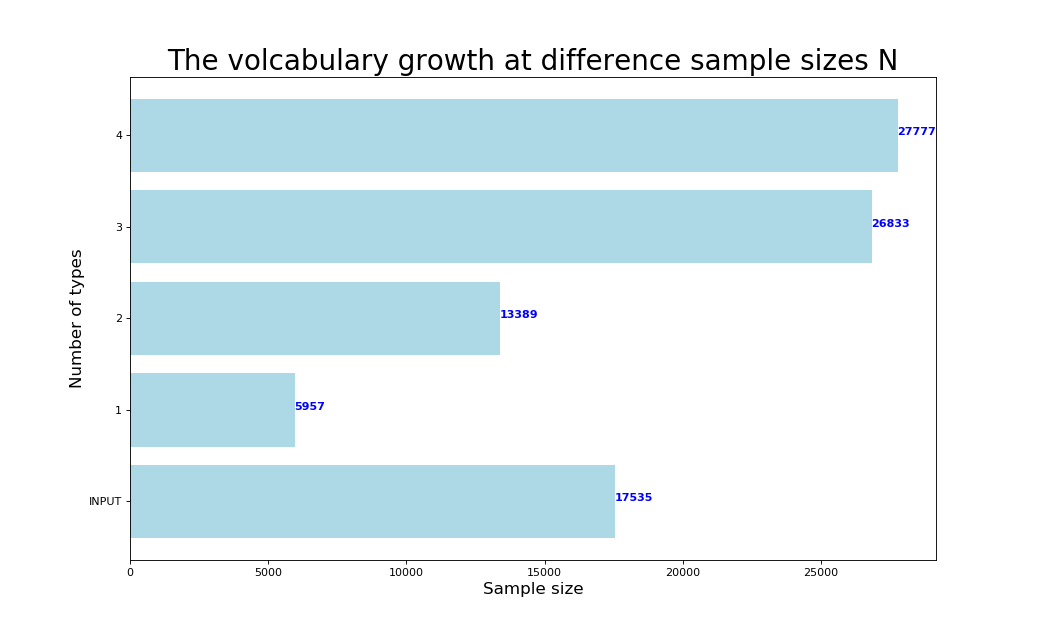
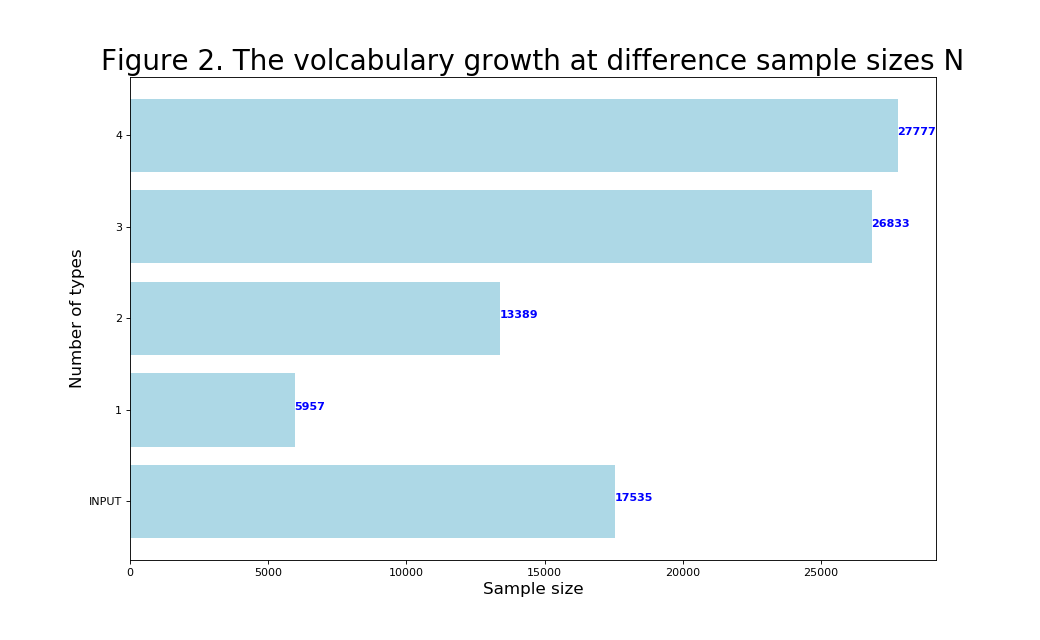
Task1 Completed, P1_Code & Gold Code Combined, readme edited

Changed region(s): [[0.0923, 0.0625, 0.9231, 0.125]]

diff --git a/P1_Code.py b/P1_Code.py
@@ -17,6 +17,8 @@ from nltk.stem import WordNetLemmatizer
 from nltk.corpus import stopwords 
 from collections import Counter
 import matplotlib.pyplot as plt
+import json
+import _pickle as pickle
 
 ###### Task 1: Exploratory Data analysis (5 points) ######
 
@@ -175,11 +177,10 @@ def input_data_explore(data):
     ax.plot(np.log(sort_lemma_df["Count"]))
     ax.set_xlabel('Word Index (Sort by Frequency)', fontsize = 15)
     ax.set_ylabel('Token Frequency (Log Scale)', fontsize = 15)
-    ax.set_title("10. Token Log Frequency")
+    ax.set_title("Figure 1. Token Log Frequency")
     result['10. Log Token Frequency']= "See Figure 1: In question 10, we removed stop words and lemmatized all the words. The plot shows that the majority of words only occur once or twice. Therefore we might remove these words when we train the model. "
-    pp.pprint(result)
     plt.savefig("token log frequency.png")
-    return
+    return result
 
 def gold_data_explore(dev,dev_train,dev_test,devtest,INPUT):
     result = {}   
@@ -223,7 +224,7 @@ def gold_data_explore(dev,dev_train,dev_test,devtest,INPUT):
     #pl.xticks(rotation=90)
     for i ,v in enumerate(type_count):
         ax.text(v, i, str(int(type_count[i])), color='blue', fontweight='bold')
-    ax.set_title('The volcabulary growth at difference sample sizes N',fontsize=25)
+    ax.set_title('Figure 2. The volcabulary growth at difference sample sizes N',fontsize=25)
     ax.set_xlabel('Sample size', fontsize = 15)
     ax.set_ylabel('Number of types', fontsize = 15)
     plt.savefig('volcabulary growth.png')
@@ -268,13 +269,28 @@ def gold_data_explore(dev,dev_train,dev_test,devtest,INPUT):
 
 if __name__ == "__main__":
     INPUT = load_data('P1_Data/Dev/INPUT.txt')
-    input_data_explore(INPUT)
+    input_result = input_data_explore(INPUT)
     
     dev = load_data('P1_Data/Gold/dev.txt')
     dev_train = load_data('P1_Data/Gold/train.txt')
     dev_test = load_data('P1_Data/Gold/test.txt')
     devtest = load_data('P1_Data/Gold/devtest.txt')
-    pp.pprint(gold_data_explore(dev,dev_train,dev_test,devtest,INPUT))
+    gold_result = gold_data_explore(dev,dev_train,dev_test,devtest,INPUT)
+
+    fout = "task1_result.txt"
+    fo = open(fout, "w")
+
+    for k, v in input_result.items():
+        fo.write(str(k) + ' >>> '+ str(v) + '\n\n')
+        
+    for k, v in gold_result.items():
+        fo.write(str(k) + ' >>> '+ str(v) + '\n\n')
+
+    fo.close()
+    
+        
+    
+    
 
 
 

diff --git a/preprocessing.py b/preprocessing.py
@@ -1,0 +1,10 @@
+#!/usr/bin/env python3
+# -*- coding: utf-8 -*-
+"""
+Created on Wed Oct  2 01:07:35 2019
+
+@author: Ivy
+"""
+
+def smart_preprocessing(hashtag=0, emoji=0, lemma=1, stop=0):
+    
